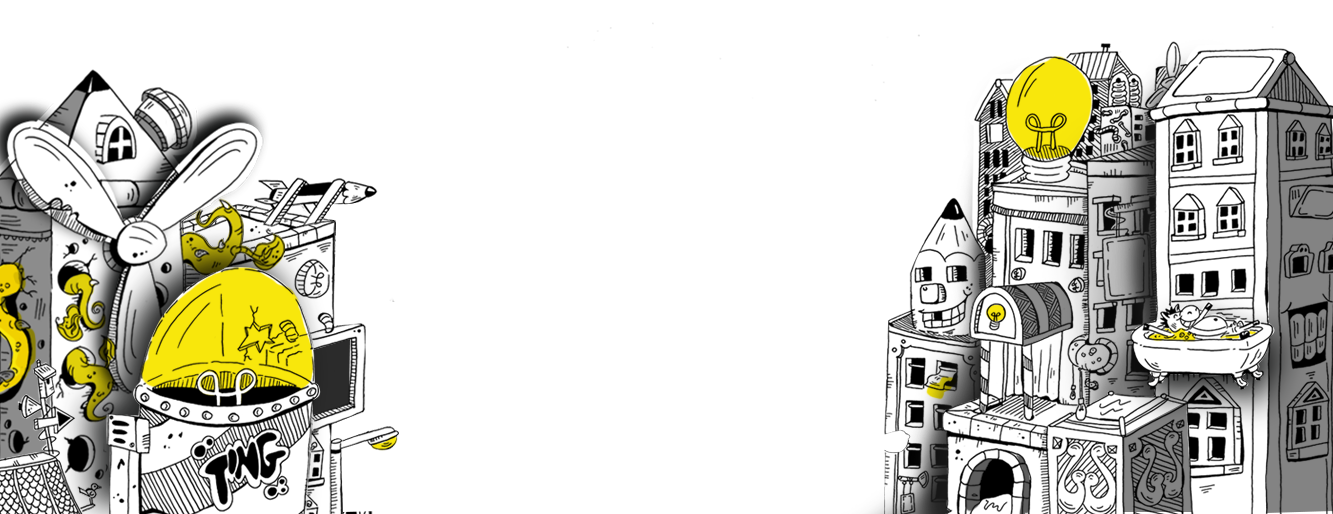
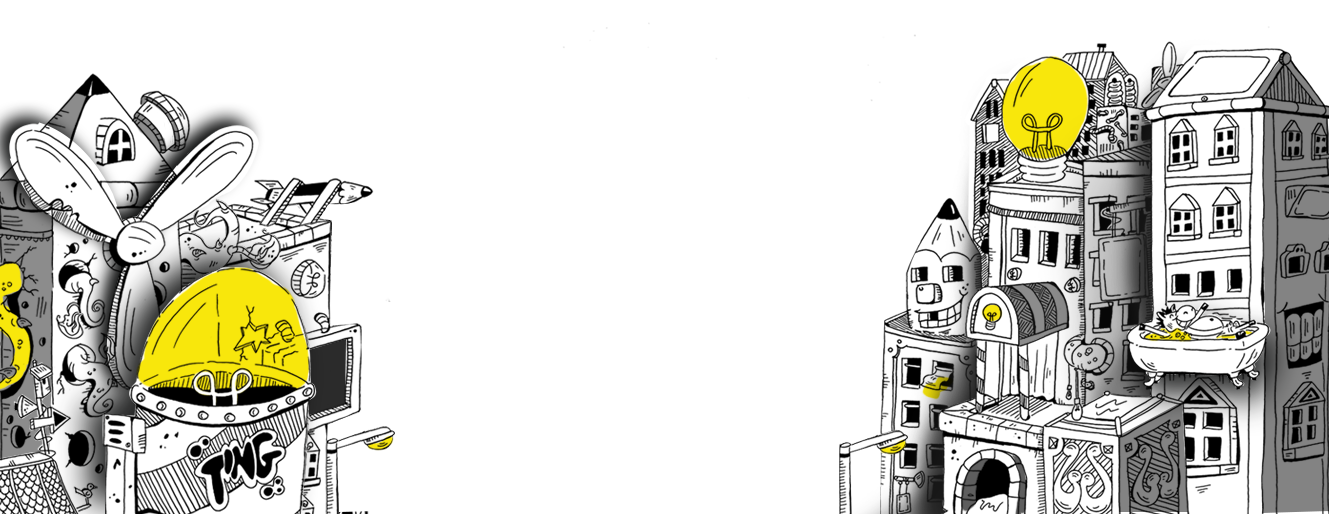
almost done

Changed region(s): [[0.0, 0.1245, 0.3085, 1.0], [0.617, 0.0934, 0.9564, 1.0], [0.9255, 0.6848, 0.9564, 0.716]]

diff --git a/views/content/home.html b/views/content/home.html
@@ -8,15 +8,17 @@
 							<img alt="donut" src="img/donut.png">
 						</figure>
 					</div>
-					<div class="letgo">
-						<figure>
-							<img alt="letgo" class="" src="img/letgo.png">
-						</figure>
-					</div>
-					<div class="astronaut">
-						<figure>
-							<img alt="astronaut" class="" src="img/astronaut.png">
-						</figure>
+					<div class="magic-astro">
+						<div class="letgo">
+							<figure>
+								<img alt="letgo" class="" src="img/letgo.png">
+							</figure>
+						</div>
+						<div class="astronaut">
+							<figure>
+								<img alt="astronaut" class="" src="img/astronaut.png">
+							</figure>
+						</div>
 					</div>
 				</div>
 			</div>
@@ -34,7 +36,7 @@
 
 <section class="section2">
 
-	<img class="img-responsive road-sofa" ng-scroll-animation-from="{'y':0, 'ease': Linear.easeOut}" ng-scroll-animation-to="{'y': 0, 'ease': Linear.ease}" ng-scroll-duration="900" ng-scroll-offset="200" pin=".road-sofa" src="img/section2/road-sofa.jpg"  style="margin-top:50px;" />
+	<img class="img-responsive road-sofa" ng-scroll-animation-from="{'y':0, 'ease': Linear.easeOut}" ng-scroll-animation-to="{'y': 0, 'ease': Linear.ease}" ng-scroll-duration="900" ng-scroll-offset="200" pin=".road-sofa" src="img/section2/road-sofa.jpg" style="margin-top:50px;" />
 
 	<div class="buildings">
 		<div class="building" ng-scroll-animation-from="{'y':400, 'ease': Linear.easeOut}" ng-scroll-animation-to="{'y': 230, 'ease': Linear.ease}" ng-scroll-duration="900" ng-scroll-offset="200">
@@ -135,9 +137,9 @@
 						<img src="img/rikshaw.png" class="full-image">
 					</figure>
 				</div>
-				<div class="cat" ng-scroll-animation-from="{'x':0, 'ease': Linear.easeOut}" ng-scroll-duration="200" ng-scroll-animation-to="{'x': -140,'y':0, 'ease': Linear.easeNone}" ng-scroll-offset="2600">
+				<div class="cat">
 					<figure>
-						<img src="img/cat.png" class="full-image">
+						<img src="img/gif/Cat-Hanging.gif" class="full-image">
 					</figure>
 				</div>
 
@@ -174,16 +176,16 @@
 		</div>
 		<div class="buregler1">
 			<figure>
-				<img src="img/gif/Climbing-Buglar.gif" class="" ng-scroll-animation-from="{'x':0, 'ease': Linear.ease}" ng-scroll-duration="10" ng-scroll-animation-to="{'y':0, 'ease': Linear.ease,'opacity':0}" ng-scroll-offset="3990">
+				<img src="img/gif/Climbing-Buglar.gif" class="" ng-scroll-animation-from="{'y':250, 'ease': Linear.ease}" ng-scroll-duration="100" ng-scroll-animation-to="{'y':-50, 'ease': Linear.ease,'opacity':0}" ng-scroll-offset="4030">
 			</figure>
 		</div>
-		<div class="buregler2" ng-scroll-animation-from="{'x':0, 'ease': Linear.ease}" ng-scroll-duration="10" ng-scroll-animation-to="{'y':0, 'ease': Linear.ease,'opacity':0}" ng-scroll-offset="3990">
+		<div class="buregler2" ng-scroll-animation-from="{'x':0, 'ease': Linear.ease}" ng-scroll-duration="10" ng-scroll-animation-to="{'y':0, 'ease': Linear.ease,'opacity':0}" ng-scroll-offset="4150">
 			<figure>
 				<img src="img/gif/Shaking-Buglar.gif" class="">
 			</figure>
 		</div>
 		<div class="batman-animation">
-			<div class="batman" ng-scroll-animation-from="{'x':200, 'ease': Linear.ease}" ng-scroll-duration="600" ng-scroll-animation-to="{'x': -1300,'y':-71, 'ease': Linear.ease}" ng-scroll-offset="3750">
+			<div class="batman" ng-scroll-animation-from="{'x':200, 'ease': Linear.ease}" ng-scroll-duration="600" ng-scroll-animation-to="{'x': -1300,'y':-71, 'ease': Linear.ease}" ng-scroll-offset="3900">
 				<figure>
 					<img src="img/batman.png" class="">
 				</figure>
@@ -240,7 +242,7 @@
 </section>
 <section class="section7">
 	<div class="musical">
-		<div class="cont-center" ng-scroll-animation-from="{'y':0, 'ease': Bounce.easeOut,'opacity':0}" ng-scroll-duration="300" ng-scroll-animation-to="{'y':0, 'ease': Bounce.easeOut,'opacity':1}" ng-scroll-offset="6000">
+		<div class="cont-center" ng-scroll-animation-from="{'y':0, 'ease': Bounce.easeOut,'opacity':0}" ng-scroll-duration="300" ng-scroll-animation-to="{'y':0, 'ease': Bounce.easeOut,'opacity':1}" ng-scroll-offset="5600">
 			<h4>Videos</h4>
 			<p class="text-center">Visual: Animated Ting light bulb dancing across screen. VO: “We’d tell you all about our filter effects and 2D edit skills but #BRBRendering”</p>
 			<p class="text-center">Can't you tell?</p>
@@ -248,14 +250,15 @@
 				<button class="btn btn-ouline" ng-click="showVideos();">Click Here</button>
 			</div>
 		</div>
-		<div class="text-center yellow-lights" ng-scroll-animation-from="{'y':-840,x:-180, 'ease': Linear.ease,'scale':0}" ng-scroll-duration="1100" ng-scroll-animation-to="{'y':0,x:0, 'ease': Linear.ease,'scale':1}" ng-scroll-offset="5300">
+		<div class="text-center yellow-lights" ng-scroll-animation-from="{'y':-655,x:-180, 'ease': Linear.ease,'scale':0}" ng-scroll-duration="950" ng-scroll-animation-to="{'y':0,x:0, 'ease': Linear.ease,'scale':1}" ng-scroll-offset="5300">
+			<!--		<div class="text-center yellow-lights">-->
 			<figure>
 				<img src="img/yellowlights.png">
 			</figure>
 		</div>
 		<div class="text-center pianoo">
 			<figure>
-				<img src="img/pianoo.png"  ng-scroll-animation-from="{'y':0, 'ease': Bounce.easeOut,'opacity':0}" ng-scroll-duration="600" ng-scroll-animation-to="{'y':0, 'ease': Bounce.easeOut,'opacity':1}" ng-scroll-offset="6200">
+				<img src="img/pianoo.png" ng-scroll-animation-from="{'y':0, 'ease': Bounce.easeOut,'opacity':0}" ng-scroll-duration="600" ng-scroll-animation-to="{'y':0, 'ease': Bounce.easeOut,'opacity':1}" ng-scroll-offset="6000">
 			</figure>
 		</div>
 		<div class="tvs">

diff --git a/sass/main.scss b/sass/main.scss
@@ -120,6 +120,14 @@ figure {
 	min-height: 400px;
 }
 
+.paper-inner-bg {
+	background: url("../img/background/Inside-popup-page-texture.jpg");
+	position: relative;
+	width: 100%;
+	z-index: 2;
+	min-height: 660px;
+}
+
 .black-bg {
 	background: #000;
 	min-height: 400px;
@@ -193,6 +201,7 @@ figure {
 	}
 	.astronaut {
 		width: 100%;
+		margin-left: -20px;
 	}
 	.donut {
 		position: absolute;
@@ -238,11 +247,11 @@ figure {
 	.building {
 		position: absolute;
 		bottom: 40px;
-		z-index: -1;
+		z-index: 3;
 	}
 	.building3 {
 		position: absolute;
-		bottom: 40px;
+		bottom: 20px;
 		z-index: 1;
 	}
 }
@@ -252,6 +261,7 @@ figure {
 	width: 100%;
 	img {
 		max-width: 100%;
+		margin-left: -50px;
 	}
 }
 
@@ -324,7 +334,7 @@ figure {
 	figure.hand-outside {
 		position: absolute;
 		top: 0;
-		left: 29.2%;
+		left: 23.1%;
 		z-index: 2;
 	}
 	figure.hand-cap {
@@ -376,10 +386,10 @@ figure {
 		}
 		.cat {
 			position: absolute;
-			top: 51.5%;
-			right: 44%;
+			top: 51%;
+			right: 34%;
 			z-index: 2;
-			width: 8%;
+			width: 25%;
 		}
 		.app-main {
 			height: 210px;
@@ -434,9 +444,9 @@ figure {
 	overflow: hidden;
 	.buregler1 {
 		position: absolute;
-		left: 10%;
-		bottom: 23%;
-		width: 9%;
+		left: 5%;
+		bottom: 19%;
+		width: 12%;
 		img {
 			width: 100%;
 		}
@@ -517,7 +527,8 @@ figure {
 	.conts {
 		color: #fff;
 		position: relative;
-		height: 310px;
+		height: 275px;
+		z-index: 10;
 		.cont-center {
 			position: absolute;
 			width: 360px;
@@ -544,7 +555,7 @@ figure {
 	//	margin-top: 50px;
 	.cont-center {
 		position: absolute;
-		top: 49%;
+		top: 35%;
 		width: 30%;
 		z-index: 12;
 		left: 43%;
@@ -566,6 +577,7 @@ figure {
 		position: relative;
 		img {
 			width: 75%;
+			margin-top: -220px;
 		}
 	}
 	.pianoo {
@@ -721,7 +733,7 @@ a {
 	&:hover {
 		text-decoration: none;
 		color: #000;
-	}	
+	}
 	&:focus {
 		text-decoration: none;
 		color: #000;

diff --git a/sass/main/_animation.scss b/sass/main/_animation.scss
@@ -4,11 +4,14 @@
 	.donut-astronaut {
 		@include animation(translate-donut 80s linear 0s infinite alternate);
 	}
-	.astronaut {
+	.magic-astro {
 		@include animation(translate-astronaut 40s linear 0s infinite alternate);
 	}
 	.letgo {
-		@include animation(fadein 10s ease 0s infinite alternate);
+		@include animation(fadein 20s ease 0s infinite alternate);
+	}
+	.donut {
+		@include animation(rotate-donut 10s ease 0s infinite alternate);
 	}
 }
 
@@ -34,7 +37,17 @@
 //astronaut
 @include keyframes (translate-astronaut) {
 	0% {
-		@include transform(translate(-50%));
+		@include transform(translate(100%));
+	}
+	100% {
+		@include transform( translateY(-120));
+	}
+}
+
+//astronaut
+@include keyframes (rotate-donut) {
+	0% {
+		@include transform(translate(-100%));
 	}
 	100% {
 		@include transform( translateY(-0));

diff --git a/views/content/modal-website.html b/views/content/modal-website.html
@@ -1,4 +1,4 @@
-<div class="paper-bg padding">
+<div class="paper-inner-bg padding">
     <div class="website container">
         <div class="head">
             <h2 class="margin-less">Website</h2>

diff --git a/views/content/modal-digitalmarketing.html b/views/content/modal-digitalmarketing.html
@@ -1,4 +1,4 @@
-<div class="paper-bg padding">
+<div class="paper-inner-bg padding">
     <div class="website container">
         <div class="head">
             <h2>digital marketing<h2>

diff --git a/views/content/modal-videos.html b/views/content/modal-videos.html
@@ -1,4 +1,4 @@
-<div class="paper-bg">
+<div class="paper-inner-bg">
     <div class="website container">
         <div class="head">
             <h2>videos<h2>

diff --git a/views/content/modal-app.html b/views/content/modal-app.html
@@ -1,4 +1,4 @@
-<div class="paper-bg">
+<div class="paper-inner-bg">
     <div class="website container">
         <div class="head">
             <h2>apps</h2>
